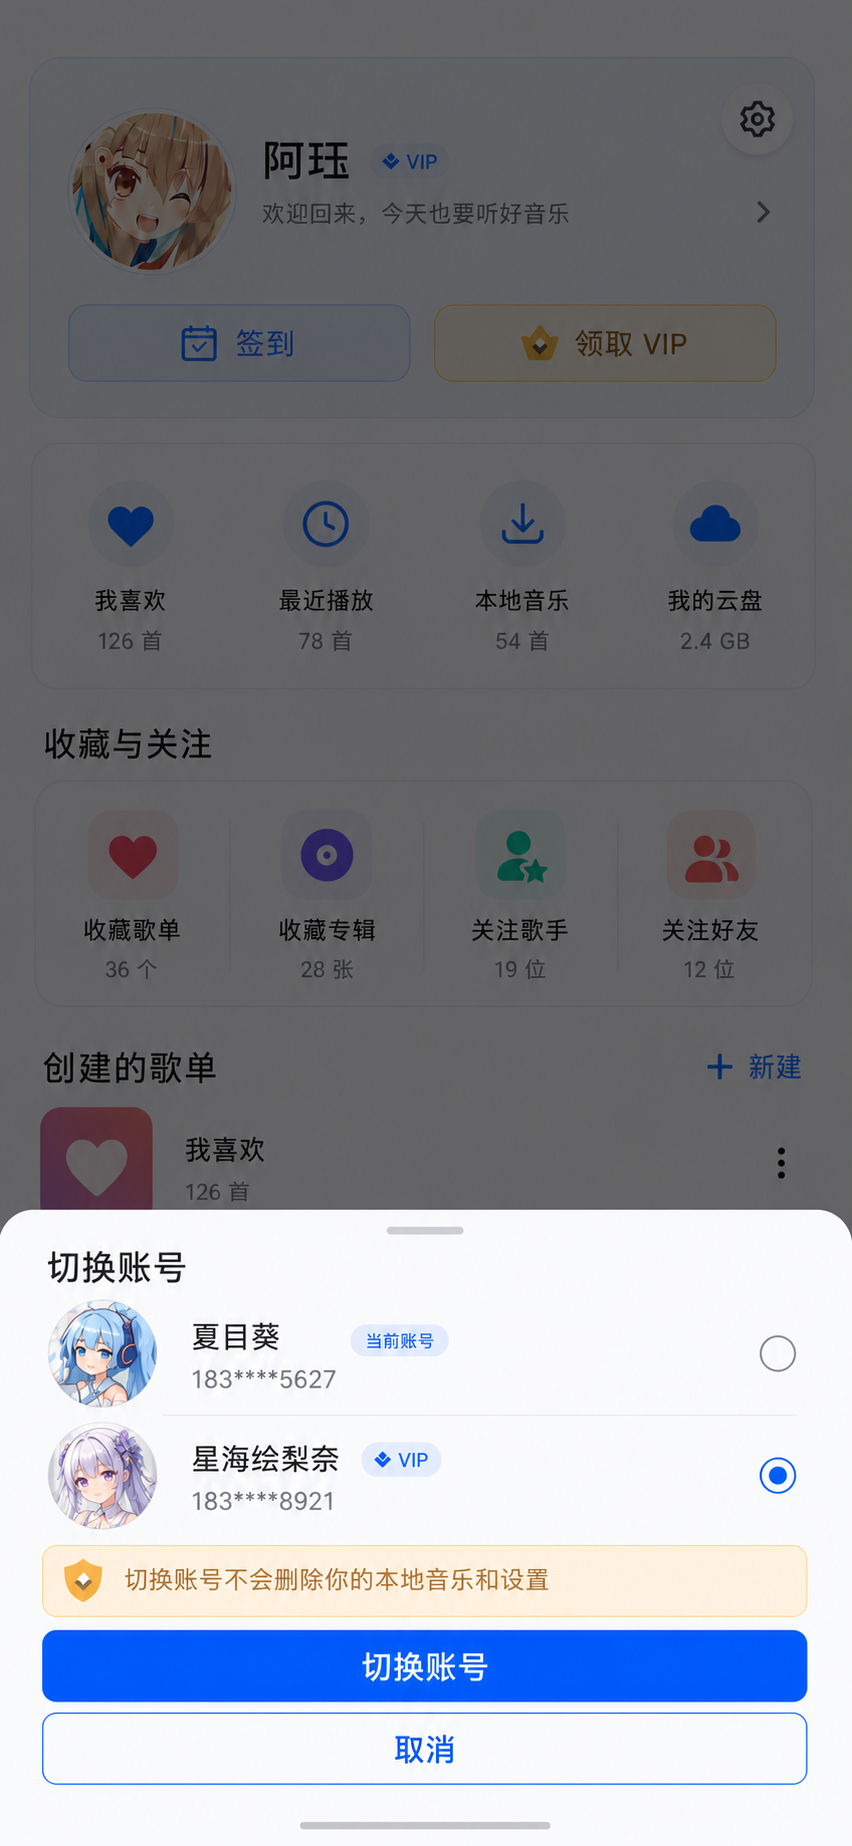
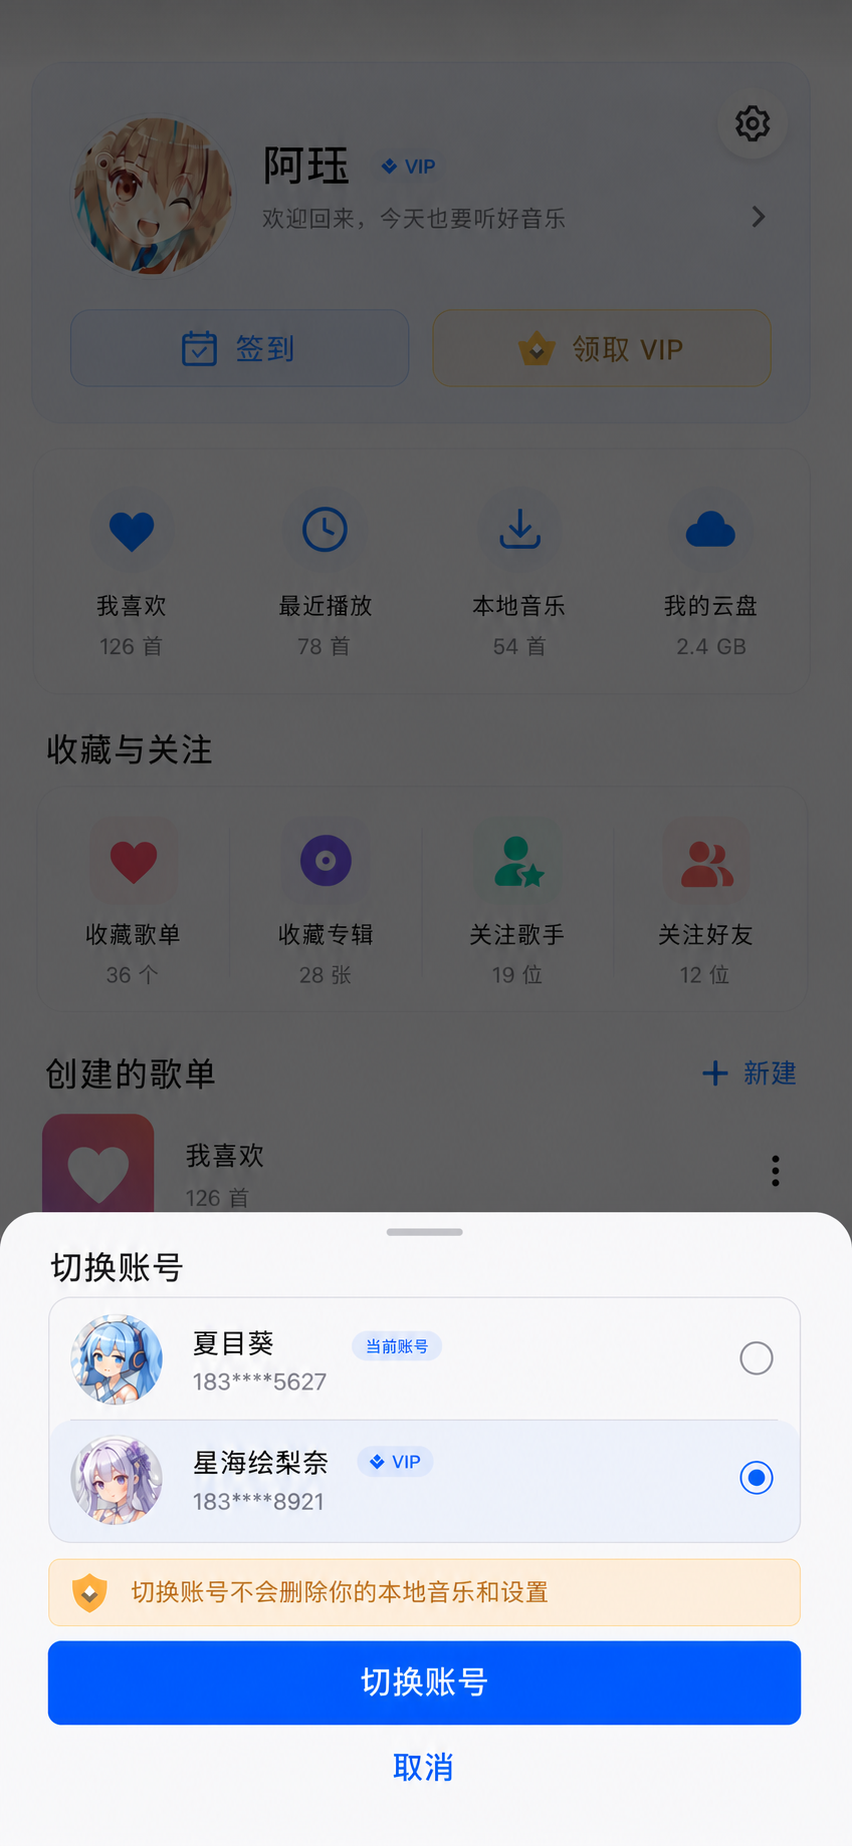
fix(design): align account sheet with component rules

diff --git a/docs/UI_COMPONENTS.md b/docs/UI_COMPONENTS.md
@@ -25,9 +25,11 @@
 ## Bottom Sheet
 
 - 手机端 Bottom Sheet 必须附着在当前视口底部，占满可用宽度，只在顶部使用 `28.dp` 圆角。
-- 使用系统遮罩表达模态层级，处理手势导航和底部安全区；不得画成居中的桌面悬浮卡片。
+- 使用系统遮罩表达主要模态层级，并在 Sheet 顶缘使用统一、低透明度的轻量上投影辅助分离；不得完全取消顶缘层级，也不得使用四周厚重悬浮阴影。处理手势导航和底部安全区，不得画成居中的桌面悬浮卡片。
+- 内容默认使用 `24.dp` 水平内边距；拖拽手柄、标题、内容组、说明组与操作区分别按 `12 / 16 / 20 / 24.dp` Token 建立层级，不得把列表、提示和按钮无间隔堆叠。
 - 播放队列支持展开状态；排序、筛选、音质和上下文操作优先使用半高或内容自适应状态。
 - 顶部拖拽手柄只表达可拖动性，不替代标题。操作行最小高度 `48.dp`，当前选项同时使用图标或选中标记，不能只依赖颜色。
+- Sheet 的主操作默认使用一个全宽 `48.dp` Filled Button；页面级 `56.dp` 大按钮不得机械套用。取消默认使用 `48.dp` TextButton；只有语义上并列且确实需要持续强调的次操作才使用 Outlined Button，禁止堆叠两个同等级全宽大按钮。
 - 内容超过可用高度时 Sheet 内部滚动；大字体下优先增高或展开，不压缩字号。
 - ViewModel 保存业务选择和结果，Sheet 的显示状态由 Route 协调；Composable 不直接访问 Repository。
 

diff --git a/docs/DESIGN_SYSTEM.md b/docs/DESIGN_SYSTEM.md
@@ -173,7 +173,7 @@
 - 加载、空数据、持续错误和离线属于页面内状态。
 - 权限解释优先使用全页面状态；登录与 VIP 限制优先使用内容区内联门槛，只有必须确认时才打开 Dialog。
 - 不可在同一页面中用风险、确认或提示卡片替换用户正在操作的主表单。登录额外风险验证属于临时阻断确认：原密码表单保持可辨识但不可操作，叠加遮罩与 Dialog；Dialog 关闭后恢复原草稿和焦点语义。只有确认后的独立验证流程可以成为新页面或隔离 Activity。
-- Bottom Sheet 必须贴住手机视口底部，占满可用宽度，仅顶部使用 `28dp` 圆角，并处理底部安全区。
+- Bottom Sheet 必须贴住手机视口底部，占满可用宽度，仅顶部使用 `28dp` 圆角，并处理底部安全区；使用遮罩与统一轻量顶缘投影分层，默认 `24dp` 水平内边距、一个 `48dp` Filled 主操作和一个 TextButton 取消，不堆叠两个同等级全宽按钮。
 - 手机 Dialog 宽度为 `min(320.dp, windowWidth - 48.dp)`，默认相对完整可用视口水平、垂直居中；不得相对底部表单或剩余内容区居中。遮罩约为 32% 黑色，确认型操作沿用 [`11-dialog-components.png`](design/mockups/11-dialog-components.png) 的左侧文字取消与右侧主按钮结构。
 - Snackbar 左右边距 `16dp`，最多两行和一个操作，位于 MiniPlayer 上方。
 - DropdownMenu 必须锚定触发控件；音质、排序等多项单选优先使用 Bottom Sheet。
